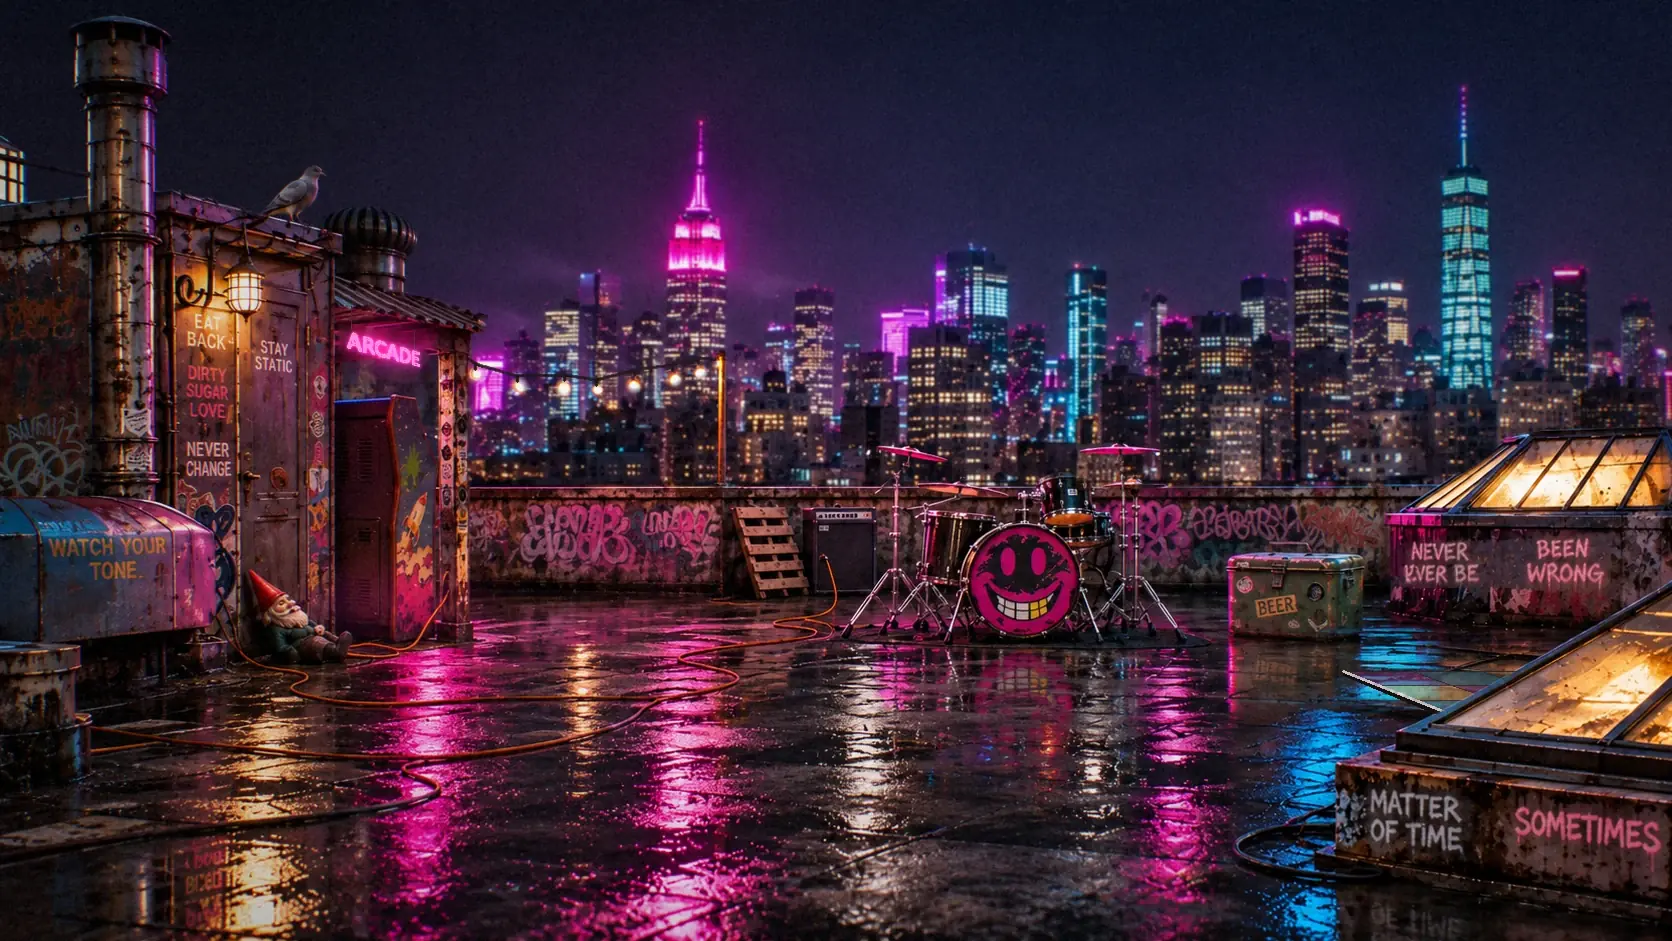
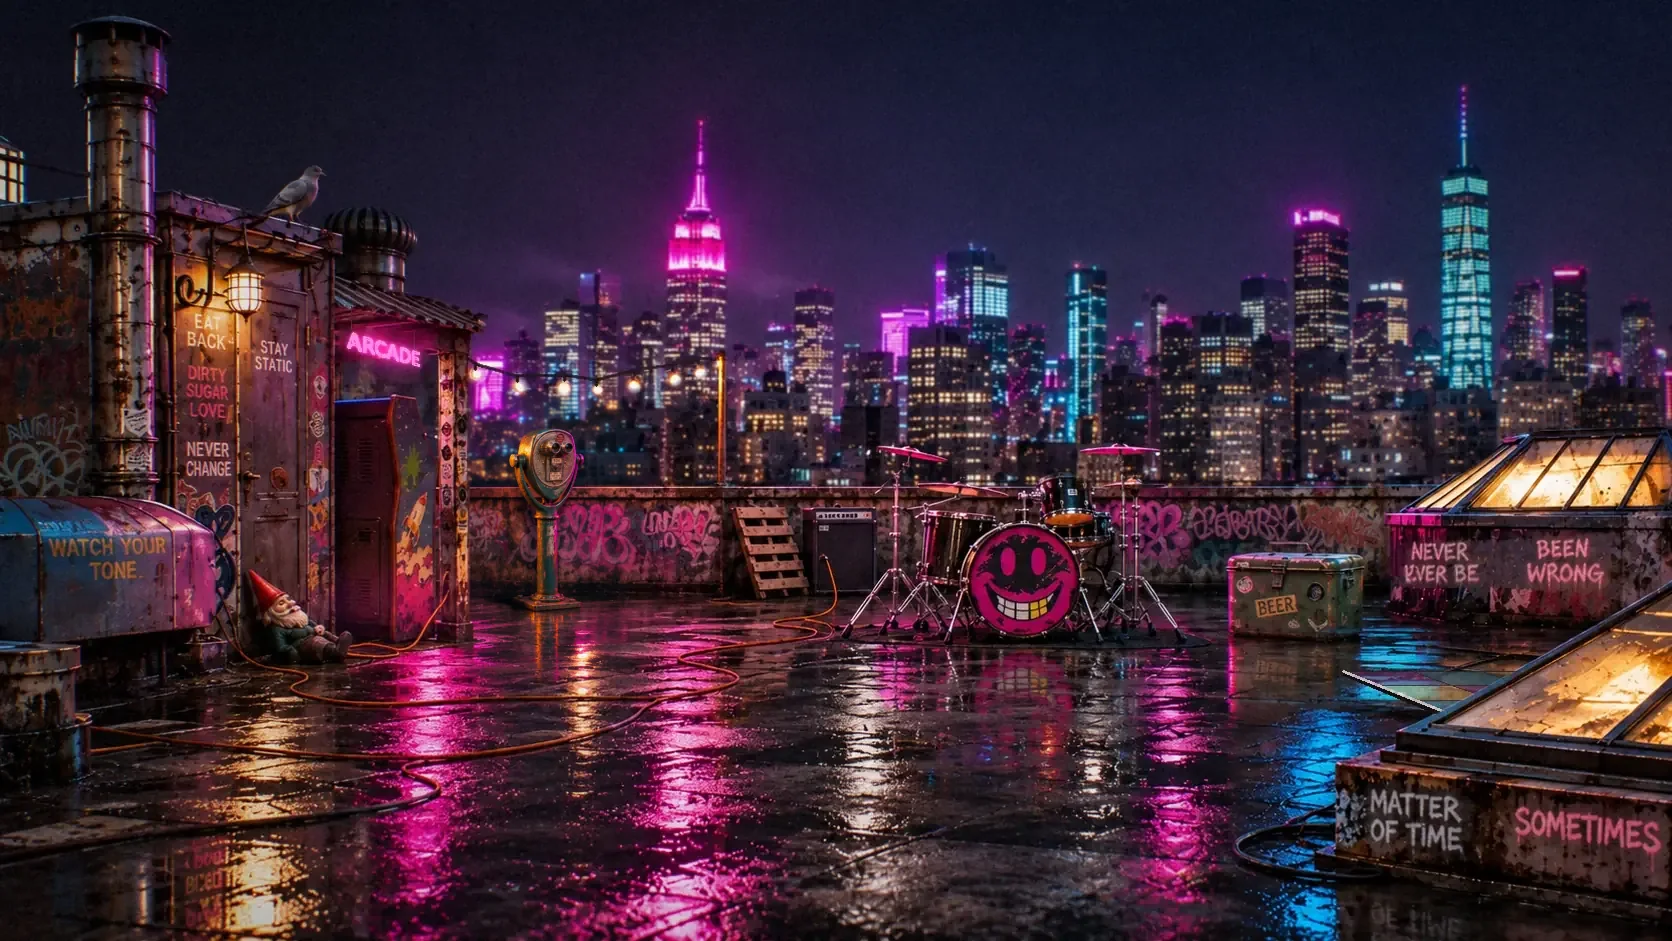
Binoculars baked into the main roof plate (ChatGPT edit of a roof crop, SIFT-aligned + feather-blended: same light, contact shadow, wet-floor reflection); #binoc is now an invisible hotspot with the Look tag + glint
Claude-Session: https://claude.ai/code/session_011gssdMsenVXumrh9a32rRB

Changed region(s): [[0.2799, 0.4315, 0.3732, 0.7088]]

diff --git a/index.html b/index.html
@@ -113,7 +113,7 @@ input{flex:1 1 220px;min-width:0;font:inherit;font-size:16px;padding:12px;backgr
 @media (max-width:760px){.stage{-webkit-user-select:none;user-select:none;-webkit-touch-callout:none}}
 #play{position:absolute;left:0;top:0;width:1672px;height:941px;transform-origin:0 0;z-index:3;pointer-events:none}
 #play .pk,#lg-play .pk{appearance:none;-webkit-appearance:none;background-color:transparent;border:0;padding:0;margin:0;color:transparent;position:absolute;pointer-events:auto;cursor:pointer;border-radius:8px;-webkit-tap-highlight-color:transparent}
-#play .pk.img{background-image:url(img/roof-main.webp?v=c1);background-size:1672px 941px;-webkit-mask-image:radial-gradient(ellipse 50% 50% at 50% 50%,#000 70%,transparent 100%);mask-image:radial-gradient(ellipse 50% 50% at 50% 50%,#000 70%,transparent 100%)}
+#play .pk.img{background-image:url(img/roof-main.webp?v=c2);background-size:1672px 941px;-webkit-mask-image:radial-gradient(ellipse 50% 50% at 50% 50%,#000 70%,transparent 100%);mask-image:radial-gradient(ellipse 50% 50% at 50% 50%,#000 70%,transparent 100%)}
 #roof-fx{position:absolute;left:0;top:0;width:1672px;height:941px;pointer-events:none;z-index:60}
 #roof-glass{position:absolute;left:0;top:0;width:1672px;height:941px;pointer-events:none;z-index:60;opacity:0;background:#ff3fd0;-webkit-mask:url(img/roof-glass.webp?v=1) 0 0/1672px 941px;mask:url(img/roof-glass.webp?v=1) 0 0/1672px 941px;mix-blend-mode:screen}
 #play a.pk{display:block}
@@ -274,7 +274,7 @@ window.MSFit=(w,h,W0,H0)=>{ const cov=Math.max(w/W0,h/H0), con=Math.min(w/W0,h/H
     <button class="pk img" id="pk-gnome" style="left:248px;top:560px;width:100px;height:90px;background-position:-248px -560px;transform-origin:50% 90%" aria-label="Garden gnome"></button>
     <button class="pk" id="pk-reset" style="left:186px;top:476px;width:38px;height:46px" aria-label="Reset button: start the roof over"></button>
     <a class="show-sign" id="show-sign" href="#shows" data-open="shows" hidden aria-label="Next show"><small id="ss-a"></small><b id="ss-b"></b></a>
-    <button class="binoc" id="binoc" aria-label="Coin-op binoculars: look across the street"><span class="bn-tag">Look ↗</span><img src="img/binoc/viewer.webp" alt=""></button>
+    <button class="binoc" id="binoc" aria-label="Coin-op binoculars: look across the street"><span class="bn-tag">Look ↗</span></button>
     <div class="jar-glow" id="jar-glow" aria-hidden="true"></div><div class="jar-help" id="jar-help" aria-hidden="true">help!</div>
     <button class="pk girl-jar" data-girl="megan" style="left:1272px;top:504px;width:37px;height:60px;background-image:url(img/girls/megan-jar.webp)" aria-label="A jar labeled MEGAN. Someone is trapped inside"></button>
     <button class="pk girl-jar" data-girl="gianna" style="left:152px;top:446px;width:37px;height:60px;background-image:url(img/girls/gianna-jar.webp)" aria-label="A jar labeled GIANNA. Someone is trapped inside"></button>
@@ -346,7 +346,7 @@ body.in-room #stage>:is(.top,#flyer,#play,#hunt,.sky,.bar) *{animation-play-stat
 body.in-room .lounge:not(.on) *,body.in-room .arcade:not(.on) *{animation-play-state:paused!important}
 .lounge.moving .lg-fill{opacity:.25}.lg-fill{transition:opacity .4s;position:absolute;inset:-40px;background:url(img/smile-lounge.webp?v=b1) 40% 50%/cover;filter:blur(22px) brightness(.45)}
 .lg-cam,.lg-hero{position:absolute;left:0;top:0;width:1672px;height:941px;transform-origin:0 0;will-change:transform,opacity}
-.lg-cam{z-index:8}.lg-hero{z-index:2;background:url(img/roof-main.webp?v=c1) 0 0/1672px 941px;pointer-events:none}
+.lg-cam{z-index:8}.lg-hero{z-index:2;background:url(img/roof-main.webp?v=c2) 0 0/1672px 941px;pointer-events:none}
 .lg-cam img{position:absolute;display:block;user-select:none;-webkit-user-drag:none}
 .lg-bg{left:0;top:0;width:1672px;height:941px}
 .lg-front{left:341px;top:489px;width:886px;height:405px;pointer-events:none}
@@ -1438,7 +1438,7 @@ body.gg-on .lg-panel,body.gg-on .lg-tag,body.gg-on .lg-hint,body.gg-on .lg-swipe
 .arcade:not(.on){visibility:hidden}
 .ac-fill{position:absolute;inset:-40px;background:url(img/game-corner.webp?v=c1) 30% 50%/cover;filter:blur(22px) brightness(.45)}
 .ac-cam,.ac-hero{position:absolute;left:0;top:0;width:1672px;height:941px;transform-origin:0 0;will-change:transform,opacity}
-.ac-cam{z-index:8}.ac-hero{z-index:2;background:url(img/roof-main.webp?v=c1) 0 0/1672px 941px;pointer-events:none;display:none}
+.ac-cam{z-index:8}.ac-hero{z-index:2;background:url(img/roof-main.webp?v=c2) 0 0/1672px 941px;pointer-events:none;display:none}
 .ac-cam>img{position:absolute;left:0;top:0;width:1672px;height:941px;user-select:none;-webkit-user-drag:none}
 #pb{position:fixed;inset:0;z-index:95;background:#05060a;display:none;touch-action:none;user-select:none;-webkit-user-select:none}
 #pb.on{display:block}
@@ -2424,7 +2424,7 @@ body.gg-on .lg-panel,body.gg-on .lg-tag,body.gg-on .lg-hint,body.gg-on .lg-swipe
   function render(c){
     seo(c);
     const hints=c.site&&c.site.showSetupHints;
-    $("stage").style.backgroundImage=`url("${(c.images&&c.images.hero)||"img/roof-main.webp?v=c1"}")`;
+    $("stage").style.backgroundImage=`url("${(c.images&&c.images.hero)||"img/roof-main.webp?v=c2"}")`;
     const m=c.music,f=m.featured;
     const sub=[f.status,f.length].filter(Boolean).join(" · ");
     $("t-listen").textContent=f.title+" ▸"; $("t-listen-sub").textContent=sub;
@@ -3150,11 +3150,11 @@ window.MST=(()=>{
 </script>
 <style>
 /* rooftop binoculars */
-.binoc{position:absolute;left:528px;top:462px;width:66px;height:142px;z-index:70;pointer-events:auto;padding:0;border:0;background:none;cursor:pointer;-webkit-tap-highlight-color:transparent;filter:drop-shadow(0 6px 6px rgba(0,0,0,.55))}
+.binoc{position:absolute;left:505px;top:428px;width:82px;height:182px;z-index:70;pointer-events:auto;padding:0;border:0;background:none;cursor:pointer;-webkit-tap-highlight-color:transparent;border-radius:30px}
 .binoc img{width:100%;height:100%;object-fit:contain;display:block}
-.binoc::after{content:"";position:absolute;left:30%;top:14%;width:16px;height:16px;border-radius:50%;background:radial-gradient(circle,#fff 0,rgba(120,240,255,.9) 30%,transparent 70%);animation:bnGlint 3.2s ease-in-out infinite}
-.binoc .bn-tag{position:absolute;left:50%;top:-30px;transform:translateX(-50%) rotate(-4deg);white-space:nowrap;font-family:var(--tube);font-size:17px;color:#7af0ff;text-shadow:0 0 8px #3ddcff;pointer-events:none;opacity:.95}
-.binoc:hover,.binoc:focus-visible{filter:drop-shadow(0 0 10px #46dcff) drop-shadow(0 6px 6px rgba(0,0,0,.55))}
+.binoc::after{content:"";position:absolute;left:52%;top:8%;width:16px;height:16px;border-radius:50%;background:radial-gradient(circle,#fff 0,rgba(120,240,255,.9) 30%,transparent 70%);animation:bnGlint 3.2s ease-in-out infinite}
+.binoc .bn-tag{position:absolute;left:50%;top:-24px;transform:translateX(-50%) rotate(-4deg);white-space:nowrap;font-family:var(--tube);font-size:17px;color:#7af0ff;text-shadow:0 0 8px #3ddcff;pointer-events:none;opacity:.95}
+.binoc:hover,.binoc:focus-visible{box-shadow:0 0 0 2px rgba(70,220,255,.5),0 0 24px rgba(70,220,255,.35)}
 @keyframes bnGlint{0%,70%,100%{opacity:0;transform:scale(.4)}78%{opacity:1;transform:scale(1.1)}86%{opacity:0;transform:scale(.6)}}
 body.jx-zoom .binoc{opacity:0!important;pointer-events:none!important}
 .bx{position:fixed;inset:0;z-index:85;background:#020205;opacity:0;transition:opacity .45s;touch-action:none;-webkit-user-select:none;user-select:none;overflow:clip}
